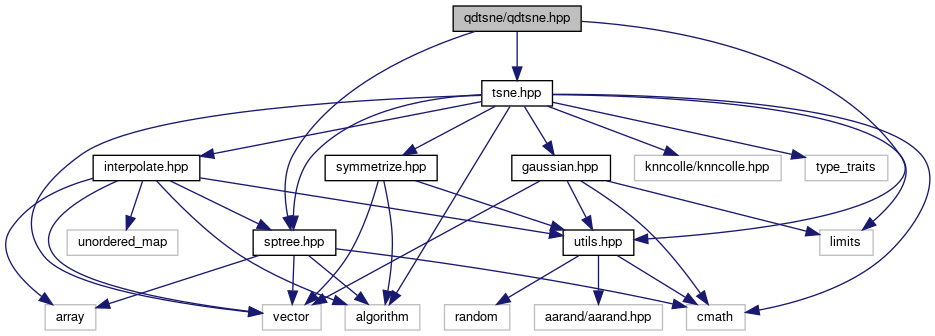
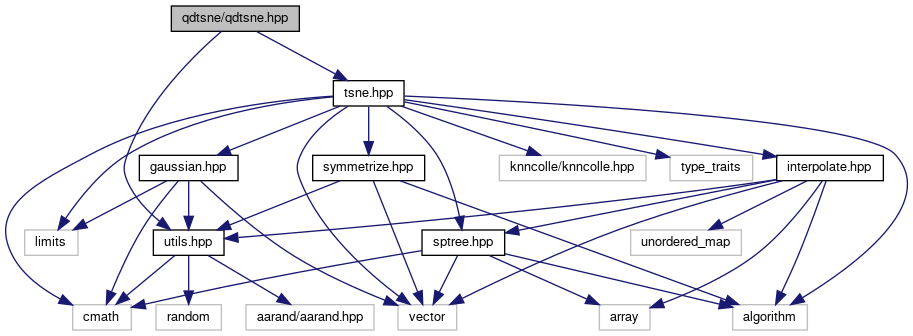
Deploying to gh-pages from @ LTLA/qdtsne@b6af849eb2fab129ed45832366050e773a90a920 🚀

diff --git a/docs/qdtsne_8hpp.html b/docs/qdtsne_8hpp.html
@@ -75,36 +75,36 @@ $(function() {
 <p>Umbrella header for all <b>qdtsne</b> files.  
 <a href="#details">More...</a></p>
 <div class="textblock"><code>#include &quot;<a class="el" href="tsne_8hpp_source.html">tsne.hpp</a>&quot;</code><br />
-<code>#include &quot;sptree.hpp&quot;</code><br />
 <code>#include &quot;<a class="el" href="utils_8hpp_source.html">utils.hpp</a>&quot;</code><br />
 </div><div class="textblock"><div class="dynheader">
 Include dependency graph for qdtsne.hpp:</div>
 <div class="dyncontent">
 <div class="center"><img src="qdtsne_8hpp__incl.png" border="0" usemap="#aqdtsne_2qdtsne_8hpp" alt=""/></div>
 <map name="aqdtsne_2qdtsne_8hpp" id="aqdtsne_2qdtsne_8hpp">
-<area shape="rect" title="Umbrella header for all qdtsne files." alt="" coords="453,5,581,32"/>
-<area shape="rect" href="tsne_8hpp.html" title="Implements the t&#45;SNE algorithm." alt="" coords="482,80,552,107"/>
-<area shape="rect" href="utils_8hpp.html" title="Utilities for running t&#45;SNE." alt="" coords="563,229,634,256"/>
-<area shape="rect" href="sptree_8hpp_source.html" title=" " alt="" coords="253,229,336,256"/>
-<area shape="rect" href="gaussian_8hpp_source.html" title=" " alt="" coords="512,155,610,181"/>
-<area shape="rect" title=" " alt="" coords="686,304,745,331"/>
-<area shape="rect" title=" " alt="" coords="820,229,873,256"/>
-<area shape="rect" title=" " alt="" coords="262,304,321,331"/>
-<area shape="rect" href="symmetrize_8hpp_source.html" title=" " alt="" coords="325,155,437,181"/>
-<area shape="rect" title=" " alt="" coords="345,304,420,331"/>
-<area shape="rect" href="interpolate_8hpp_source.html" title=" " alt="" coords="93,155,200,181"/>
-<area shape="rect" title=" " alt="" coords="634,155,781,181"/>
-<area shape="rect" title=" " alt="" coords="805,155,888,181"/>
-<area shape="rect" title=" " alt="" coords="444,304,510,331"/>
-<area shape="rect" title=" " alt="" coords="534,304,662,331"/>
-<area shape="rect" title=" " alt="" coords="45,304,96,331"/>
-<area shape="rect" title=" " alt="" coords="67,229,178,256"/>
+<area shape="rect" title="Umbrella header for all qdtsne files." alt="" coords="171,5,299,32"/>
+<area shape="rect" href="tsne_8hpp.html" title="Implements the t&#45;SNE algorithm." alt="" coords="333,80,404,107"/>
+<area shape="rect" href="utils_8hpp.html" title="Utilities for running t&#45;SNE." alt="" coords="153,229,224,256"/>
+<area shape="rect" href="gaussian_8hpp_source.html" title=" " alt="" coords="139,155,238,181"/>
+<area shape="rect" title=" " alt="" coords="73,304,131,331"/>
+<area shape="rect" title=" " alt="" coords="25,229,78,256"/>
+<area shape="rect" title=" " alt="" coords="398,304,457,331"/>
+<area shape="rect" href="symmetrize_8hpp_source.html" title=" " alt="" coords="313,155,425,181"/>
+<area shape="rect" title=" " alt="" coords="733,304,807,331"/>
+<area shape="rect" href="sptree_8hpp_source.html" title=" " alt="" coords="422,229,505,256"/>
+<area shape="rect" href="interpolate_8hpp_source.html" title=" " alt="" coords="777,155,883,181"/>
+<area shape="rect" title=" " alt="" coords="499,155,646,181"/>
+<area shape="rect" title=" " alt="" coords="670,155,753,181"/>
+<area shape="rect" title=" " alt="" coords="156,304,221,331"/>
+<area shape="rect" title=" " alt="" coords="246,304,374,331"/>
+<area shape="rect" title=" " alt="" coords="599,304,650,331"/>
+<area shape="rect" title=" " alt="" coords="631,229,741,256"/>
 </map>
 </div>
 </div>
 <p><a href="qdtsne_8hpp_source.html">Go to the source code of this file.</a></p>
 <a name="details" id="details"></a><h2 class="groupheader">Detailed Description</h2>
 <div class="textblock"><p >Umbrella header for all <b>qdtsne</b> files. </p>
+<p >This header is effectively an alias for <code><a class="el" href="tsne_8hpp.html" title="Implements the t-SNE algorithm.">tsne.hpp</a></code>. It is provided just to allow developers to <code>#include "qdtsne/qdtsne.hpp"</code> without thinking too hard about the code-containing headers. Of course, <code>#include <a class="el" href="tsne_8hpp.html" title="Implements the t-SNE algorithm.">qdtsne/tsne.hpp</a></code> also works but is less obvious. </p>
 </div></div><!-- contents -->
 <!-- start footer part -->
 <hr class="footer"/><address class="footer"><small>

diff --git a/docs/qdtsne_8hpp_source.html b/docs/qdtsne_8hpp_source.html
@@ -74,11 +74,10 @@ $(function() {
 <a href="qdtsne_8hpp.html">Go to the documentation of this file.</a><div class="fragment"><div class="line"><a id="l00001" name="l00001"></a><span class="lineno">    1</span><span class="preprocessor">#ifndef QDTSNE_QDTSNE_HPP</span></div>
 <div class="line"><a id="l00002" name="l00002"></a><span class="lineno">    2</span><span class="preprocessor">#define QDTSNE_QDTSNE_HPP</span></div>
 <div class="line"><a id="l00003" name="l00003"></a><span class="lineno">    3</span> </div>
-<div class="line"><a id="l00010" name="l00010"></a><span class="lineno">   10</span><span class="preprocessor">#include &quot;<a class="code" href="tsne_8hpp.html">tsne.hpp</a>&quot;</span></div>
-<div class="line"><a id="l00011" name="l00011"></a><span class="lineno">   11</span><span class="preprocessor">#include &quot;sptree.hpp&quot;</span></div>
-<div class="line"><a id="l00012" name="l00012"></a><span class="lineno">   12</span><span class="preprocessor">#include &quot;<a class="code" href="utils_8hpp.html">utils.hpp</a>&quot;</span></div>
-<div class="line"><a id="l00013" name="l00013"></a><span class="lineno">   13</span> </div>
-<div class="line"><a id="l00014" name="l00014"></a><span class="lineno">   14</span><span class="preprocessor">#endif</span></div>
+<div class="line"><a id="l00014" name="l00014"></a><span class="lineno">   14</span><span class="preprocessor">#include &quot;<a class="code" href="tsne_8hpp.html">tsne.hpp</a>&quot;</span></div>
+<div class="line"><a id="l00015" name="l00015"></a><span class="lineno">   15</span><span class="preprocessor">#include &quot;<a class="code" href="utils_8hpp.html">utils.hpp</a>&quot;</span></div>
+<div class="line"><a id="l00016" name="l00016"></a><span class="lineno">   16</span> </div>
+<div class="line"><a id="l00017" name="l00017"></a><span class="lineno">   17</span><span class="preprocessor">#endif</span></div>
 <div class="ttc" id="atsne_8hpp_html"><div class="ttname"><a href="tsne_8hpp.html">tsne.hpp</a></div><div class="ttdoc">Implements the t-SNE algorithm.</div></div>
 <div class="ttc" id="autils_8hpp_html"><div class="ttname"><a href="utils_8hpp.html">utils.hpp</a></div><div class="ttdoc">Utilities for running t-SNE.</div></div>
 </div><!-- fragment --></div><!-- contents -->
